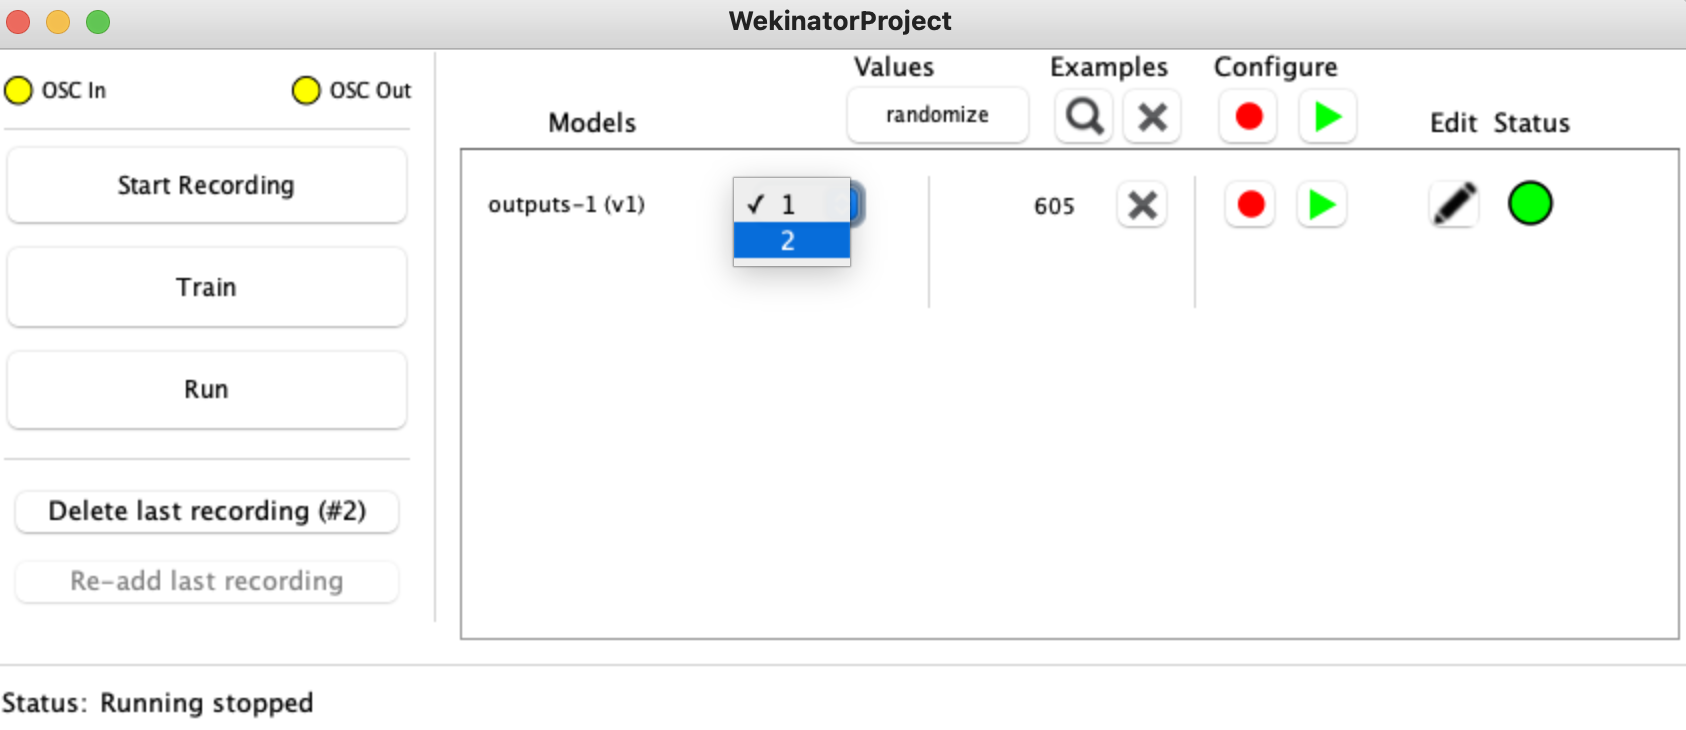
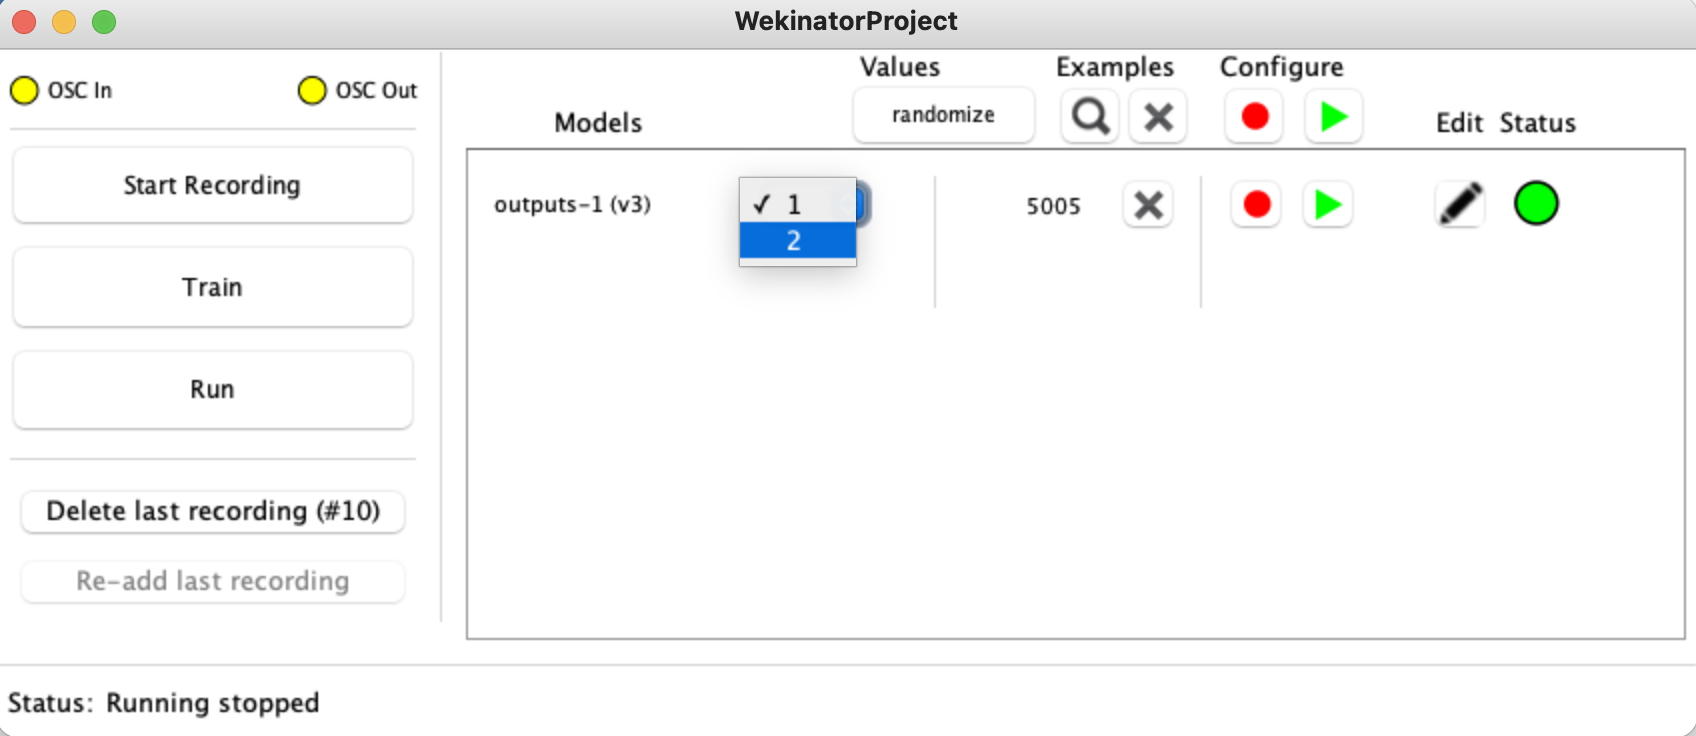
Replace Wekinator training screenshot with 5005-example version

diff --git a/README.md b/README.md
@@ -562,7 +562,7 @@ The earlier documented training snapshot contained 605 feature-vector examples: 
 
 ![Report figure 19](docs/images/final-report/figure-19.png)
 
-Figure W4 Training interface showing 605 examples. Model execution was stopped when the screenshot was taken.
+Figure W4 Updated Wekinator training interface showing 5,005 examples and two classification labels. Model execution was stopped when the screenshot was taken.
 
 1. Fix the camera and recognition area in place.
 
